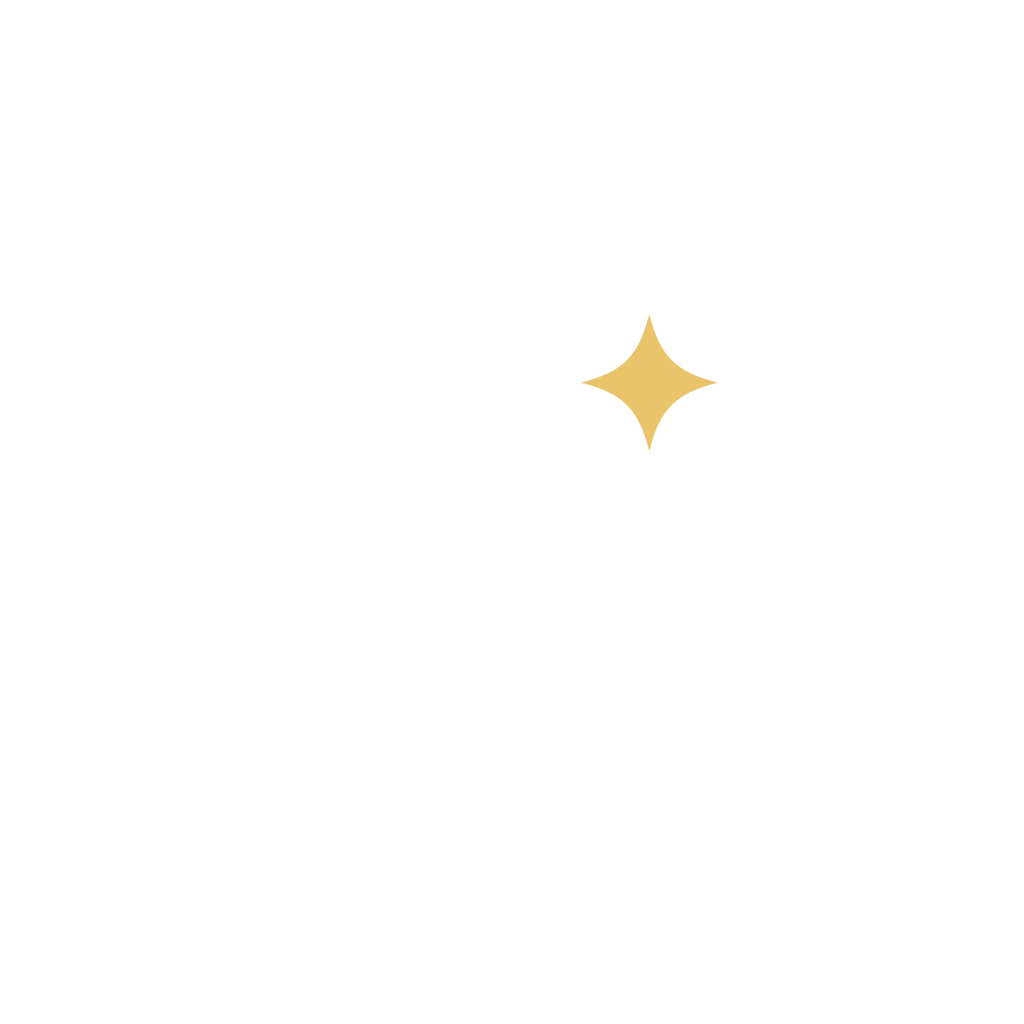
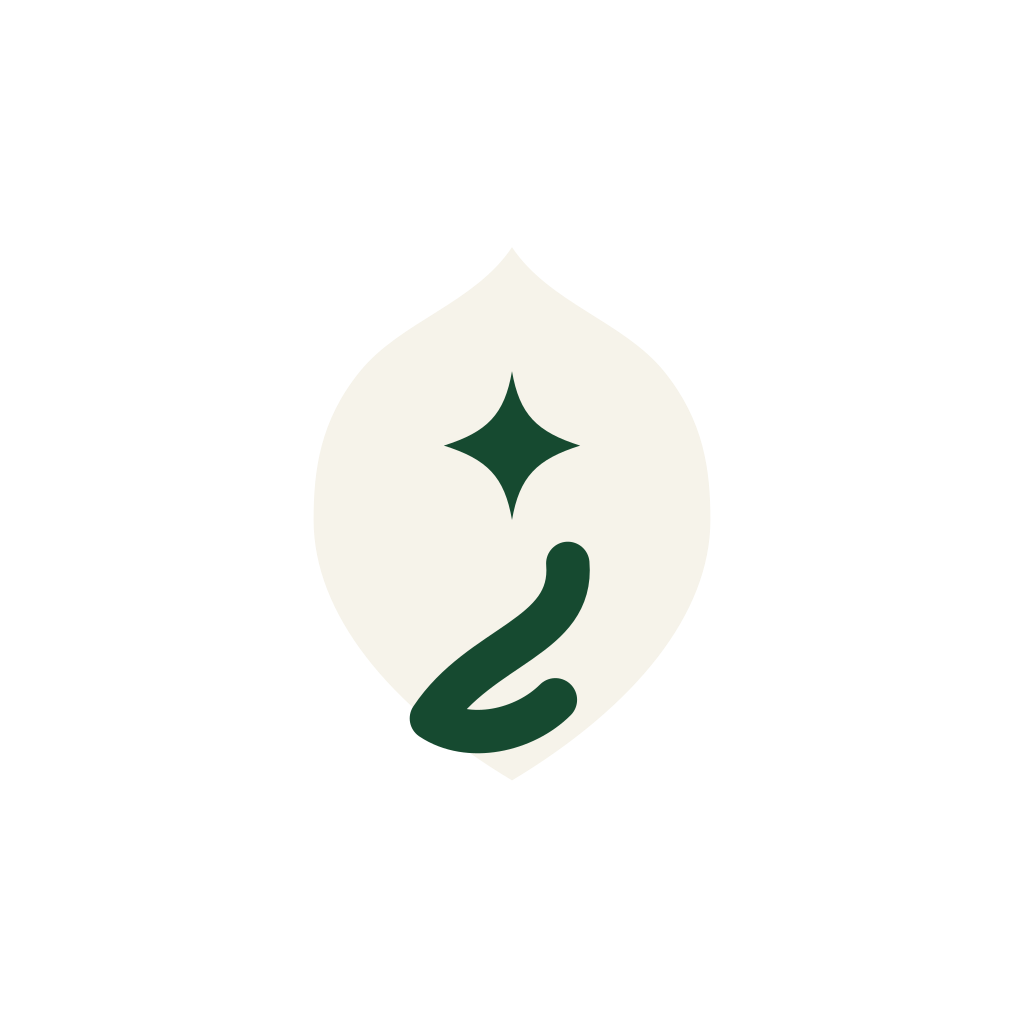
Логотип UzRoam по референсу: купол-михраб, звезда-окно, дорога-река
Заменил знак на точную версию из присланной картинки: кремовый купол
с четырёхконечной звездой-окном и S-образной дорогой-рекой внутри, на
тёмно-зелёной плитке (#164A30). Обновил LogoMark, public/icons (svg +
все png), исходники assets/*.png для @capacitor/assets и цвет заливки
углов apple-touch. Ушёл золотой акцент — знак монохромный, как в
референсе.

Changed region(s): [[0.375, 0.5312, 0.5938, 0.75], [0.4375, 0.375, 0.5625, 0.5], [0.5625, 0.3125, 0.6875, 0.4375]]

diff --git a/src/components/ui.tsx b/src/components/ui.tsx
@@ -1,4 +1,4 @@
-import { GOLD, GREEN, GREEN_LIGHT } from "@/lib/theme";
+import { CREAM, GOLD, GREEN, GREEN_DARK } from "@/lib/theme";
 
 /** Мелкие элементы, которые встречаются на каждом втором экране. */
 
@@ -27,22 +27,31 @@ export function StarRow({ rating }: { rating: number }) {
 }
 
 export function LogoMark({ size = 30 }: { size?: number }) {
-  // Знак UzRoam: булавка-путь с узбекской стрельчатой аркой (пиштак)
-  // внутри и звездой-искрой — путешествие, наследие, открытие.
+  // Знак UzRoam: купол-михраб с окном-звездой и вьющейся дорогой-рекой —
+  // путешествие, наследие, открытие. Кладём на тёмно-зелёную плитку,
+  // чтобы значок читался и на фото, и на зелёных шапках.
+  const cut = GREEN_DARK; // цвет звезды и дороги — совпадает с плиткой
   return (
-    <svg width={size} height={size} viewBox="0 0 40 40" fill="none" aria-hidden>
-      <path
-        d="M20 3C27.5 3 34 9.2 34 17.5C34 25.5 27 31.5 20 37.5C13 31.5 6 25.5 6 17.5C6 9.2 12.5 3 20 3Z"
-        fill={GREEN}
-      />
-      <path
-        d="M14.5 27.5V18.5C14.5 13.5 16.7 10.2 20 7.5C23.3 10.2 25.5 13.5 25.5 18.5V27.5Z"
-        fill={GREEN_LIGHT}
-      />
-      <path
-        d="M29 4C29.9 7.3 31.2 8.6 34.5 9.5C31.2 10.4 29.9 11.7 29 15C28.1 11.7 26.8 10.4 23.5 9.5C26.8 8.6 28.1 7.3 29 4Z"
-        fill={GOLD}
-      />
+    <svg width={size} height={size} viewBox="0 0 100 100" fill="none" aria-hidden>
+      <rect width="100" height="100" rx="22" fill={GREEN_DARK} />
+      <g transform="translate(50 51) scale(0.74) translate(-50 -50)">
+        <path
+          d="M50 6C56 15 68 18 74.5 26C81 34 82 42 82 50C82 65 70 80 50 92C30 80 18 65 18 50C18 42 19 34 25.5 26C32 18 44 15 50 6Z"
+          fill={CREAM}
+        />
+        <path
+          d="M50 26C51.2 33 54 35.8 61 38C54 40.2 51.2 43 50 50C48.8 43 46 40.2 39 38C46 35.8 48.8 33 50 26Z"
+          fill={cut}
+        />
+        <path
+          d="M59 57C60 69 45 70 37 82C43 86 52 84 57 79"
+          fill="none"
+          stroke={cut}
+          strokeWidth="7"
+          strokeLinecap="round"
+          strokeLinejoin="round"
+        />
+      </g>
     </svg>
   );
 }

diff --git a/src/lib/theme.ts b/src/lib/theme.ts
@@ -9,6 +9,8 @@ import type { CSSProperties } from "react";
  */
 export const GREEN = "#2E7D5A";
 export const GREEN_LIGHT = "#3A9E70";
+/** Тёмный лес — плитка логотипа и подложка бренда. */
+export const GREEN_DARK = "#164A30";
 export const GOLD = "#E9C46A";
 export const CREAM = "#F5F1E6";
 export const WHITE = "#FFFFFF";
